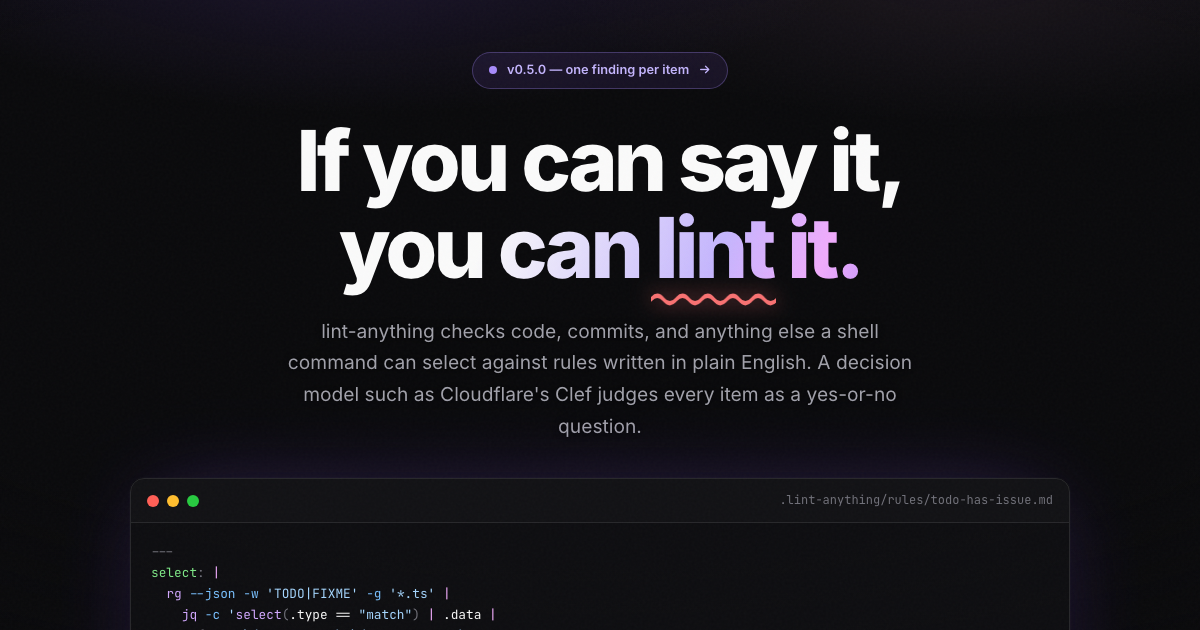
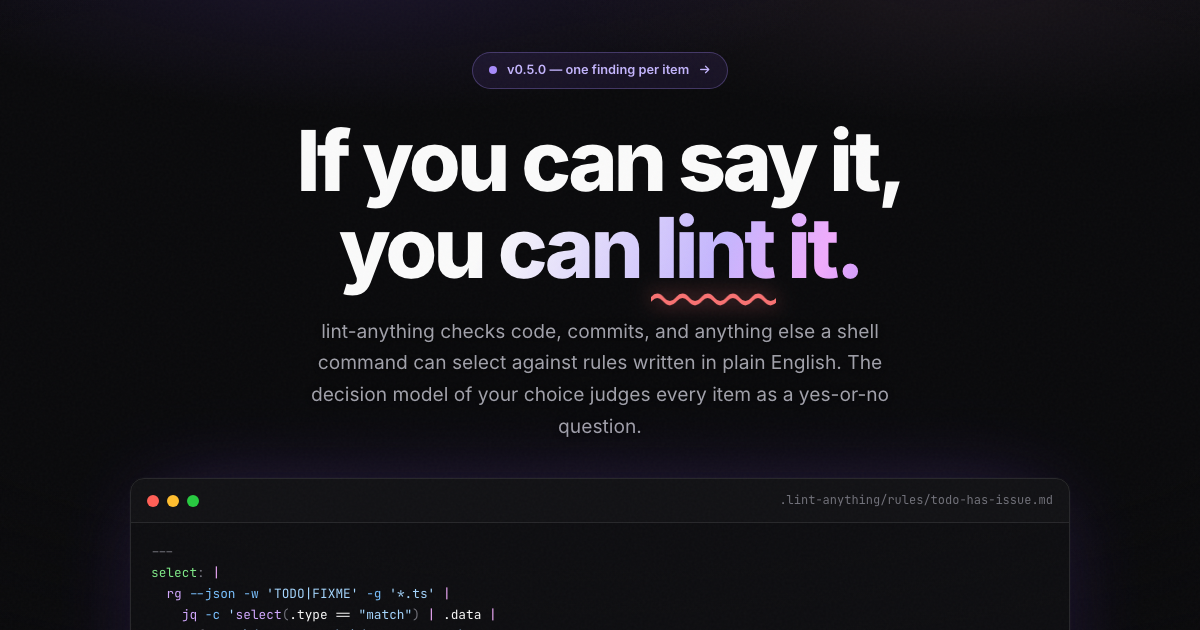
Docs: any decision model, Clef only where measured or the default
The website, README, skill, and package description led with Clef and
read as if lint-anything needed it. They now present the decision model
as the project's choice: any System One or OpenAI Decisions endpoint,
or, with no endpoint set, a Cloudflare model on Workers AI (Clef unless
LINT_ANYTHING_MODEL names another). Clef stays named where a number was
measured on it (eval scores, costs, research findings), where it is the
default, and in facts about it (its truncation message, --debug pricing).

- README: intro, quick start, and environment table lead with the
  endpoint; "Choosing a decision model" explains the default once;
  guidance says "the model" instead of Clef.
- Skill: the credentials bullet said the Cloudflare variables were
  required on every run, which is only true without an endpoint.
- Landing page: taglines, hero, selectors heading, and demo captions
  are model-neutral; quick start step 2 is "Connect a decision model";
  the evals section says its numbers were measured on Clef; the footer
  links to "Choosing a decision model". Preview image regenerated.

Changed region(s): [[0.2467, 0.5429, 0.7708, 0.6635]]

diff --git a/site/index.html b/site/index.html
@@ -6,7 +6,7 @@
     <title>lint-anything — Lint what static analysis can't</title>
     <meta
       name="description"
-      content="Check code, commits, and anything a shell command can select against rules written in plain English, judged one yes-or-no question at a time by a decision model: Cloudflare's Clef, or any System One or OpenAI Decisions endpoint."
+      content="Check code, commits, and anything a shell command can select against rules written in plain English, judged one yes-or-no question at a time by the decision model of your choice: any System One or OpenAI Decisions endpoint, or Workers AI."
     >
     <meta name="theme-color" content="#09090b">
     <meta property="og:type" content="website">
@@ -14,7 +14,7 @@
     <meta property="og:title" content="lint-anything — If you can say it, you can lint it">
     <meta
       property="og:description"
-      content="Plain-English lint rules for coding agents, judged by a decision model such as Cloudflare's Clef."
+      content="Plain-English lint rules for coding agents, judged by the decision model of your choice."
     >
     <meta
       property="og:image"
@@ -117,8 +117,8 @@
           </h1>
           <p class="hero-description">
             lint-anything checks code, commits, and anything else a shell command
-            can select against rules written in plain English. A decision model
-            such as Cloudflare's Clef judges every item as a yes-or-no question.
+            can select against rules written in plain English. The decision model
+            of your choice judges every item as a yes-or-no question.
           </p>
           <div class="hero-actions">
             <a href="#start" class="btn btn-primary">
@@ -180,7 +180,7 @@ violation     0.94   src/report.ts:6-6  todo-has-issue  The comment has no track
             </figure>
           </div>
           <p class="hero-hint">
-            Real policies, real output from Clef. The background is a field of
+            Real policies, real model output. The background is a field of
             items waiting to be judged: hover to inspect one, click to judge a few.
           </p>
         </div>
@@ -398,7 +398,7 @@ written as `#123`, `ABC-123`, or a full issue URL.</code></pre>
       <section id="selectors" class="section selectors">
         <div class="section-header reveal">
           <span class="section-badge">Select anything</span>
-          <h2 class="section-title">If a command can print it, Clef can judge it</h2>
+          <h2 class="section-title">If a command can print it, a model can judge it</h2>
           <p class="section-description">
             Selectors cut out exactly what a rule is about, and put the context
             it needs into each item. Every finding below came from running these
@@ -549,7 +549,7 @@ criteria:
           <div class="scale-head">
             <h3>Every item gets a probability. Two cut-offs make it a verdict.</h3>
             <p>
-              The 19 items from the policies above, as Clef answered them. Hover
+              The 19 items from the policies above, as the model answered them. Hover
               or tap a point to see which item it is.
             </p>
           </div>
@@ -654,8 +654,9 @@ total                         4      14          1022     $0.0002</code></pre>
           <span class="section-badge">Evals</span>
           <h2 class="section-title">Measured on code nobody wrote for it</h2>
           <p class="section-description">
-            17 semantic rules on the test split: real files, copied verbatim
-            from open-source projects and labeled by two model families.
+            17 semantic rules on the test split, judged by Clef: real files,
+            copied verbatim from open-source projects and labeled by two model
+            families. The same evals score any other decision model.
           </p>
         </div>
         <div class="stats-grid spotlight-group">
@@ -787,21 +788,23 @@ bun .claude/skills/lint-anything/scripts/score.js todo-has-issue candidate.md</c
           <li class="step reveal">
             <div class="step-number">2</div>
             <div class="step-content">
-              <h3>Connect Workers AI</h3>
+              <h3>Connect a decision model</h3>
               <p>
-                Your Cloudflare account ID and an API token. Bun loads
-                <code>.env</code> and <code>.env.local</code> on its own.
+                Any System One or OpenAI Decisions endpoint, such as a LiteLLM
+                proxy or OpenAI. With no endpoint set, lint-anything asks Clef on
+                Workers AI with your Cloudflare account ID and an API token. Bun
+                loads <code>.env</code> and <code>.env.local</code> on its own.
               </p>
               <div class="code-block terminal">
-                <pre><code data-highlight="shell">echo 'CLOUDFLARE_ACCOUNT_ID=...' >> .env
+                <pre><code data-highlight="shell"># any System One or OpenAI Decisions endpoint
+echo 'LINT_ANYTHING_ENDPOINT=http://localhost:4000/v1/systemone' >> .env
+echo 'LINT_ANYTHING_MODEL=...' >> .env
+echo 'LINT_ANYTHING_API_KEY=...' >> .env
+# or, with no endpoint, Workers AI
+echo 'CLOUDFLARE_ACCOUNT_ID=...' >> .env
 echo 'CLOUDFLARE_AUTH_TOKEN=...' >> .env
 echo '.lint-anything/cache' >> .gitignore</code></pre>
               </div>
-              <p>
-                Or ask another decision model: set <code>LINT_ANYTHING_ENDPOINT</code>
-                to any System One or OpenAI Decisions endpoint, with
-                <code>LINT_ANYTHING_MODEL</code> and <code>LINT_ANYTHING_API_KEY</code>.
-              </p>
             </div>
           </li>
           <li class="step reveal">
@@ -910,7 +913,7 @@ const findings = await Effect.runPromise(Effect.gen(function*() {
             <a href="https://github.com/andrueandersoncs/lint-anything/blob/main/README.md" target="_blank" rel="noopener">Documentation</a>
             <a href="https://github.com/andrueandersoncs/lint-anything/blob/main/skills/lint-anything/SKILL.md" target="_blank" rel="noopener">Agent skill</a>
             <a href="https://github.com/andrueandersoncs/lint-anything/blob/main/evals/RESEARCH.md" target="_blank" rel="noopener">Research notebook</a>
-            <a href="https://developers.cloudflare.com/workers-ai/models/clef/" target="_blank" rel="noopener">Clef on Workers AI</a>
+            <a href="https://github.com/andrueandersoncs/lint-anything/blob/main/README.md#choosing-a-decision-model" target="_blank" rel="noopener">Choosing a decision model</a>
           </div>
           <div class="footer-column">
             <h4>Package</h4>

diff --git a/README.md b/README.md
@@ -1,6 +1,6 @@
 # lint-anything
 
-Check anything against plain-English policies, judged by a decision model: Cloudflare's [Clef](https://developers.cloudflare.com/workers-ai/models/clef/) on Workers AI by default, or any model served behind a System One or OpenAI Decisions endpoint. A policy's selector decides what is checked: parts of files, facts derived from them, a repository's history, a third-party service.
+Check anything against plain-English policies, judged by the decision model of your choice: any model served behind a System One or OpenAI Decisions endpoint, or, with no endpoint set, a Cloudflare model on Workers AI ([Clef](https://developers.cloudflare.com/workers-ai/models/clef/) unless you name another). A policy's selector decides what is checked: parts of files, facts derived from them, a repository's history, a third-party service.
 
 ## Run
 
@@ -8,37 +8,43 @@ Requires [Bun](https://bun.sh) 1.2.23 or later, plus whatever your policies' sel
 
 ```sh
 bun add -d @andrueandersoncs/lint-anything   # or: bun add -g @andrueandersoncs/lint-anything
+
+# a decision model: any System One or OpenAI Decisions endpoint…
+echo 'LINT_ANYTHING_ENDPOINT=http://localhost:4000/v1/systemone' >> .env
+echo 'LINT_ANYTHING_MODEL=...' >> .env
+echo 'LINT_ANYTHING_API_KEY=...' >> .env     # if the endpoint needs one
+# …or, with no endpoint, Workers AI
 echo 'CLOUDFLARE_ACCOUNT_ID=...' >> .env
 echo 'CLOUDFLARE_AUTH_TOKEN=...' >> .env
+
 bunx lint-anything                          # from the project root
 ```
 
 The command is `lint-anything`. It runs on Bun, not Node: without Bun on the `PATH` it fails with `env: bun: No such file or directory`.
 
-The CLI takes no arguments, and one flag, `--debug`: each run checks every policy. Policies are read from `.lint-anything/rules` under the current directory, and each policy's selector finds what it checks. Items are judged by a decision model (`clef` unless configured otherwise, below) and printed as text. Answers are cached in `.lint-anything/cache/answers.sqlite` (add `.lint-anything/cache` to `.gitignore`). Effect CLI also provides its global flags (`--help`, `--version`, `--wizard`, `--completions`, `--log-level`); they are expected and stay.
+The CLI takes no arguments, and one flag, `--debug`: each run checks every policy. Policies are read from `.lint-anything/rules` under the current directory, and each policy's selector finds what it checks. Items are judged by the decision model the environment configures (below) and printed as text. Answers are cached in `.lint-anything/cache/answers.sqlite` (add `.lint-anything/cache` to `.gitignore`). Effect CLI also provides its global flags (`--help`, `--version`, `--wizard`, `--completions`, `--log-level`); they are expected and stay.
 
 | Environment variable | Required | Meaning |
 | --- | --- | --- |
-| `CLOUDFLARE_ACCOUNT_ID` | for Workers AI | Workers AI account |
-| `CLOUDFLARE_AUTH_TOKEN` | for Workers AI | API token |
-| `CLOUDFLARE_API_BASE_URL` | no | Defaults to `https://api.cloudflare.com/client/v4` |
-| `LINT_ANYTHING_ENDPOINT` | no | Another decision endpoint, as a full URL: the model is asked there instead of on Workers AI, and the `CLOUDFLARE_` variables aren't needed |
-| `LINT_ANYTHING_MODEL` | with `LINT_ANYTHING_ENDPOINT` | The model to ask. Without an endpoint, a Cloudflare model on Workers AI: `clef` (the default) or, for example, `clef-flash` |
+| `LINT_ANYTHING_ENDPOINT` | no | The decision endpoint to ask, as a full URL: any System One or OpenAI Decisions endpoint. Without it, the model is asked on Workers AI |
+| `LINT_ANYTHING_MODEL` | with `LINT_ANYTHING_ENDPOINT` | The model to ask. Without an endpoint, a Cloudflare model on Workers AI: `clef` unless set, or, for example, `clef-flash` |
 | `LINT_ANYTHING_API_KEY` | no | Bearer token for `LINT_ANYTHING_ENDPOINT`, if it needs one |
+| `CLOUDFLARE_ACCOUNT_ID` | without an endpoint | Workers AI account |
+| `CLOUDFLARE_AUTH_TOKEN` | without an endpoint | Workers AI API token |
+| `CLOUDFLARE_API_BASE_URL` | no | Defaults to `https://api.cloudflare.com/client/v4` |
 
 Bun loads `.env` and `.env.local` from the current directory automatically. An empty variable counts as unset.
 
 ### Choosing a decision model
 
-A decision model answers yes/no questions with the probability of yes instead of writing text. Clef is one. lint-anything asks whichever model the environment names, and speaks the two decision APIs:
+A decision model answers yes/no questions with the probability of yes instead of writing text. lint-anything isn't tied to one: it asks whichever model the environment names, and speaks the two decision APIs:
 
 - **System One** (`POST …/v1/systemone`), the API Jev introduced: a `state`, then `noul` questions keyed by id, each with `instructions` and `criteria`. Clef on Workers AI speaks it, and so do most hosts and servers of decision models, such as [LiteLLM](https://docs.litellm.ai/docs/decisions)'s proxy (which routes to Jev, Clef, Perplexity, Databricks, Microsoft Foundry, vLLM, and others) and [LLM Gateway](https://llmgateway.io/blog/llm-decision-api).
 - **OpenAI Decisions** (`POST …/v1/decisions`), used when the endpoint's path ends in `/decisions`: an `input`, then `predicate` questions. A predicate has no criteria, so each question's instructions are the item's text followed by `true: <criteria.true>` and `false: <criteria.false>` lines, as LiteLLM does when it sends criteria to OpenAI.
 
-```sh
-# Clef-flash on Workers AI, with the CLOUDFLARE_ credentials above
-LINT_ANYTHING_MODEL=clef-flash
+With no endpoint set, the model is a Cloudflare model on Workers AI, asked with the `CLOUDFLARE_` credentials: `clef` unless `LINT_ANYTHING_MODEL` names another.
 
+```sh
 # any System One server, such as a LiteLLM proxy
 LINT_ANYTHING_ENDPOINT=http://localhost:4000/v1/systemone
 LINT_ANYTHING_MODEL=typesafe/jev-latest
@@ -48,6 +54,9 @@ LINT_ANYTHING_API_KEY=sk-...
 LINT_ANYTHING_ENDPOINT=https://api.openai.com/v1/decisions
 LINT_ANYTHING_MODEL=gpt-6-luna-decisions
 LINT_ANYTHING_API_KEY=sk-...
+
+# Clef-flash on Workers AI, with the CLOUDFLARE_ credentials
+LINT_ANYTHING_MODEL=clef-flash
 ```
 
 - Every model is asked the same way: the same request text, at most 64 questions and 64,000 bytes per request, the same 0.5 / 0.65 cut-offs. A model whose context window is under 64K tokens may truncate a full request. Serve a local model with a context of at least that size.
@@ -55,7 +64,7 @@ LINT_ANYTHING_API_KEY=sk-...
 - A question the model refuses (an OpenAI Decisions `refusal`) is `inconclusive`, with the reason `<model> declined to answer`. It isn't cached, so it is asked again next run.
 - `--debug` prices tokens only for Clef. For other models, the cost column shows `-`.
 - Errors name the model: `error: typesafe/jev-latest responded with HTTP 401: …`. A configuration that can't work stops the run (exit 2) before anything is sent: an endpoint without `LINT_ANYTHING_MODEL`, an endpoint that isn't an http(s) URL, `LINT_ANYTHING_API_KEY` without an endpoint, or a model name like `typesafe/jev-latest` without an endpoint (Workers AI only serves Cloudflare models by name).
-- Every accuracy number in this README was measured on Clef. Clef-flash scored much worse on the same corpus (Evals, "Defaults of the removed flags"), so check another model on your own labels (`score.js`, below) or on the corpus (`bun evals/run.ts` with the same variables set) before trusting its verdicts.
+- Every accuracy number in this README was measured on Clef, the model the evals were built with. Clef-flash scored much worse on the same corpus (Evals, "Defaults of the removed flags"), so check another model on your own labels (`score.js`, below) or on the corpus (`bun evals/run.ts` with the same variables set) before trusting its verdicts.
 
 ## Policies
 
@@ -119,7 +128,7 @@ An item counts as a violation when its lines overlap a labeled violation, and a 
 - A selector still running after 10 minutes is killed, with every process it started, and stops the run (exit 2).
 - From the evals:
   - Items must reach every place a violation can be: a selector whose items miss the violating lines can't find them.
-  - Context belongs in each item's text, and computed facts beat raw data: a TODO's age in days lets Clef judge "older than 90 days" at 99% accuracy; its commit date and today's date do not. Context costs input tokens.
+  - Context belongs in each item's text, and computed facts beat raw data: a TODO's age in days lets the model judge "older than 90 days" at 99% accuracy; its commit date and today's date do not. Context costs input tokens.
   - Packing a policy's items as questions of one request matches one request per item and costs 2.4× less.
 - An item's answer is cached by its text, so whatever the text holds decides when it is asked again. Line numbers in the text (as in the example above) re-ask every item below an edit in that file; text without them stays cached until the item itself changes. `path` and `lines` set the finding's location either way.
 - Structural units (functions, classes, handlers, tests) are easiest to select with a syntax-aware tool such as [ast-grep](https://ast-grep.github.io/). The eval corpus's policies (`evals/corpus/policies/`) and their scripts (`evals/steps/`) are worked examples: a selector lists the files it judges (`rg --files -g '*.ts'`) and pipes their paths to a script that cuts out the units.
@@ -129,7 +138,7 @@ An item counts as a violation when its lines overlap a labeled violation, and a 
 
 Each policy's selector runs from the current directory, then the decision model judges the selected items. Up to 8 policies run at once, and at most 8 requests are in flight across the run. A request's text is the policy body; it carries one yes/no question per item, the item's text, with the policy's criteria. Each item gets its own finding. A policy whose selector emits nothing sends nothing. Findings are printed in policy order.
 
-A request holds at most 64 questions (Clef's limit) and 64,000 bytes, whichever model is asked. Items that don't fit in one request are split across several. Each request is POSTed to the model's endpoint with its API token or key as a bearer token: on Workers AI, `https://api.cloudflare.com/client/v4/accounts/<account>/ai/run/@cf/cloudflare/<model>`; otherwise `LINT_ANYTHING_ENDPOINT` as given.
+A request holds at most 64 questions and 64,000 bytes, whichever model is asked (Clef's limits; every decision API that documents a limit allows at least as many questions). Items that don't fit in one request are split across several. Each request is POSTed to the model's endpoint with its API token or key as a bearer token: on Workers AI, `https://api.cloudflare.com/client/v4/accounts/<account>/ai/run/@cf/cloudflare/<model>`; otherwise `LINT_ANYTHING_ENDPOINT` as given.
 
 | Result | Verdict |
 | --- | --- |
@@ -145,7 +154,7 @@ Answers are cached on disk in one SQLite database, `.lint-anything/cache/answers
 
 A cached answer stands for 30 days; each run starts by deleting older answers, so their questions are asked again, answers follow updates to the model, and the cache doesn't grow without bound. A row can only hold a probability between 0 and 1. With 50,000 cached answers the database is 5.5 MB, and a run that takes every answer from it reads them in under half a second.
 
-Clef's answer to one question shifts a little with the other questions in its request (see Evals). A selector's items are sorted by path, line, and id before they are packed, so the same items always get the same answers; with the cache, an edit in one file also leaves the verdicts of every other file as they were.
+A model's answer to one question can shift a little with the other questions in its request (Clef's does; see Evals). A selector's items are sorted by path, line, and id before they are packed, so the same items always get the same answers; with the cache, an edit in one file also leaves the verdicts of every other file as they were.
 
 ## Output
 
@@ -358,7 +367,7 @@ Purpose: context from outside the file makes rules about time or history judgeab
 | … and its computed age in days | **1.000** [+0.077, +0.175] | **0.009** [−0.152, −0.099] | **99%** [+16, +31 pts] | **97%** | **0%** | 98% / 0% | $0.044 |
 
 - The purpose holds once the item states the fact the rule turns on. With the age in days, accuracy rises from 76% to 99% and false alarms from issue-less young TODOs vanish.
-- Clef doesn't do the date arithmetic: given today's date and each commit date, it still flags 88% of young issue-less TODOs. Compute facts in the selector; don't ask Clef to derive them.
+- Clef doesn't do the date arithmetic: given today's date and each commit date, it still flags 88% of young issue-less TODOs. Compute facts in the selector; don't ask the model to derive them.
 
 #### Shared selector runs
 

diff --git a/skills/lint-anything/SKILL.md b/skills/lint-anything/SKILL.md
@@ -1,11 +1,11 @@
 ---
 name: lint-anything
-description: Run lint-anything, act on its findings, and write or tune its policies (plain-English rules in `.lint-anything/rules/*.md`, each with a shell selector, judged by a decision model: Cloudflare's Clef by default, or any System One or OpenAI Decisions endpoint). Use when a project has a `.lint-anything/` directory, when asked to lint code against semantic or prose rules, to fix lint-anything findings, or to add, debug, or tune a rule.
+description: Run lint-anything, act on its findings, and write or tune its policies (plain-English rules in `.lint-anything/rules/*.md`, each with a shell selector, judged by the decision model the project configures: any System One or OpenAI Decisions endpoint, or Workers AI). Use when a project has a `.lint-anything/` directory, when asked to lint code against semantic or prose rules, to fix lint-anything findings, or to add, debug, or tune a rule.
 ---
 
 # lint-anything
 
-lint-anything checks a codebase against rules written in English. Each rule is a **policy**: a Markdown file whose shell **selector** cuts out the items to judge (functions, comments, commits, anything), and whose body and **criteria** tell a decision model what a violation is: Cloudflare's Clef unless the project configures another. The model returns a violation probability for each item; the CLI turns it into a verdict.
+lint-anything checks a codebase against rules written in English. Each rule is a **policy**: a Markdown file whose shell **selector** cuts out the items to judge (functions, comments, commits, anything), and whose body and **criteria** tell a decision model what a violation is: whichever model the project configures. The model returns a violation probability for each item; the CLI turns it into a verdict.
 
 It is a guide more than a gate: semantic rules are judged probabilistically. On the project's eval corpus, well-written policies catch about 69% of real violations outright, surface about 85% (counting `review`), and raise false alarms on about 13% of clean cases. Read findings critically; don't assume every `violation` is real or every `pass` is clean.
 
@@ -22,8 +22,9 @@ If `lint-anything` isn't found, install it with `bun add -d @andrueandersoncs/li
 
 - **No arguments.** Every run checks every policy; you can't pass files, a rule name, a threshold, or an output format. To check less, change the selector. The only flag is `--debug`; `--help` and `--version` also exist.
 - **The working directory matters.** Policies are read from `./.lint-anything/rules`, and selectors run in the current directory. Run from a subdirectory and you get `error: cannot read policies in .lint-anything/rules`: there is no upward search.
-- **Credentials:** `CLOUDFLARE_ACCOUNT_ID` and `CLOUDFLARE_AUTH_TOKEN` for Clef on Workers AI, from the environment or from `.env` / `.env.local` in the current directory. They are required on every run, even when every answer would come from the cache. `CLOUDFLARE_API_BASE_URL` is optional.
-- **Another decision model:** `LINT_ANYTHING_MODEL` picks another Cloudflare model on Workers AI (`clef-flash`). With `LINT_ANYTHING_ENDPOINT` (a full URL), the model named by `LINT_ANYTHING_MODEL` is asked there instead, and `LINT_ANYTHING_API_KEY` is its bearer token if it needs one. An endpoint whose path ends in `/decisions` speaks OpenAI's Decisions API; any other speaks System One (`/v1/systemone`: Jev, LiteLLM, LLM Gateway, and most decision-model servers). These are the project's choice, so don't change them to make findings go away. Accuracy numbers in this skill were measured on Clef: a project on another model should score it on its labels before trusting it.
+- **The decision model** is the project's choice, set in the environment or in `.env` / `.env.local` in the current directory. Don't change it to make findings go away. With `LINT_ANYTHING_ENDPOINT` (a full URL), the model named by `LINT_ANYTHING_MODEL` is asked there, and `LINT_ANYTHING_API_KEY` is its bearer token if it needs one. An endpoint whose path ends in `/decisions` speaks OpenAI's Decisions API; any other speaks System One (`/v1/systemone`: Jev, LiteLLM, LLM Gateway, and most decision-model servers).
+- **Without an endpoint**, a Cloudflare model on Workers AI is asked: `clef`, or another that `LINT_ANYTHING_MODEL` names (`clef-flash`). `CLOUDFLARE_ACCOUNT_ID` and `CLOUDFLARE_AUTH_TOKEN` are then required on every run, even when every answer would come from the cache. `CLOUDFLARE_API_BASE_URL` is optional.
+- **Accuracy numbers in this skill were measured on Clef.** A project on another model should score it on its labels before trusting it.
 - **Add `.lint-anything/cache` to `.gitignore`.** The answer cache (`answers.sqlite` plus `-wal`/`-shm` files) is written there.
 
 ### Output
@@ -174,7 +175,7 @@ Selectors can select things other than files: `git log`, an API, a database. Use
 What decides accuracy is what the item's text says (from the evals):
 
 - **Items must reach every possible violation.** A violation that no item contains can't be found.
-- **Compute facts; don't make the model derive them.** For "TODOs older than 90 days need an issue", giving the TODO's age in days scored 99% accuracy. Giving its commit date and today's date scored 84%, and the TODO alone 76%. Clef doesn't do date math or counting. Do it in the selector, with `git blame` or a script.
+- **Compute facts; don't make the model derive them.** For "TODOs older than 90 days need an issue", giving the TODO's age in days scored 99% accuracy. Giving its commit date and today's date scored 84%, and the TODO alone 76%. Don't rely on the model for date math or counting (Clef got both wrong on the evals). Do it in the selector, with `git blame` or a script.
 - **Add only the context the rule turns on**: the enclosing function for a magic number, the call sites for a flag parameter, whether a symbol is used for a public-surface rule. Context costs input tokens.
 - **Line numbers in `text` reduce cache hits.** The cache is keyed on the text, so `"text": "src/a.ts:42: …"` gets asked again whenever a line above it is added or removed. Location is already in `path`/`lines`. Put the path in the text only if the rule needs it (test-file rules, say), and put line numbers in only if the rule needs them.
 - **Selectors built for a rule beat generic ones.** If you reword a rule, check its selector still reaches what the new wording covers.
@@ -231,7 +232,7 @@ The lint-anything repository has worked examples: 21 policies in `evals/corpus/p
 - Each answer is cached per question, keyed by model (and endpoint), policy body, item text, and criteria. Switching models never reuses another model's answers. Re-running with nothing changed sends no requests, and an edit re-asks only the items whose text changed. Editing a policy's body or criteria re-asks all of that policy's items.
 - Answers expire after 30 days, so everything is asked again about once a month, and verdicts can shift slightly if the model has been updated.
 - A machine without the cache (a fresh CI runner) pays for every item on every run, unless CI keeps `.lint-anything/cache` between runs.
-- Clef's pricing is $0.24 per million input tokens; output is free. `--debug` prices only Clef; on another model its cost column is `-`, and the project's provider bills it. On the evals, rule-specific selectors cost about $14–16 per 1,000 files across 17 rules. Nothing caps spending: a selector that emits every line of a large repository sends all of them, so check the item count by hand first.
+- Cost depends on the model. `--debug` prices only Clef ($0.24 per million input tokens; output is free); on another model its cost column is `-`, and the project's provider bills it. On the evals, with Clef, rule-specific selectors cost about $14–16 per 1,000 files across 17 rules. Nothing caps spending: a selector that emits every line of a large repository sends all of them, so check the item count by hand first.
 - Deleting `.lint-anything/cache` forces a fresh judgment of everything.
 
 ## Quick checklist for a new policy
